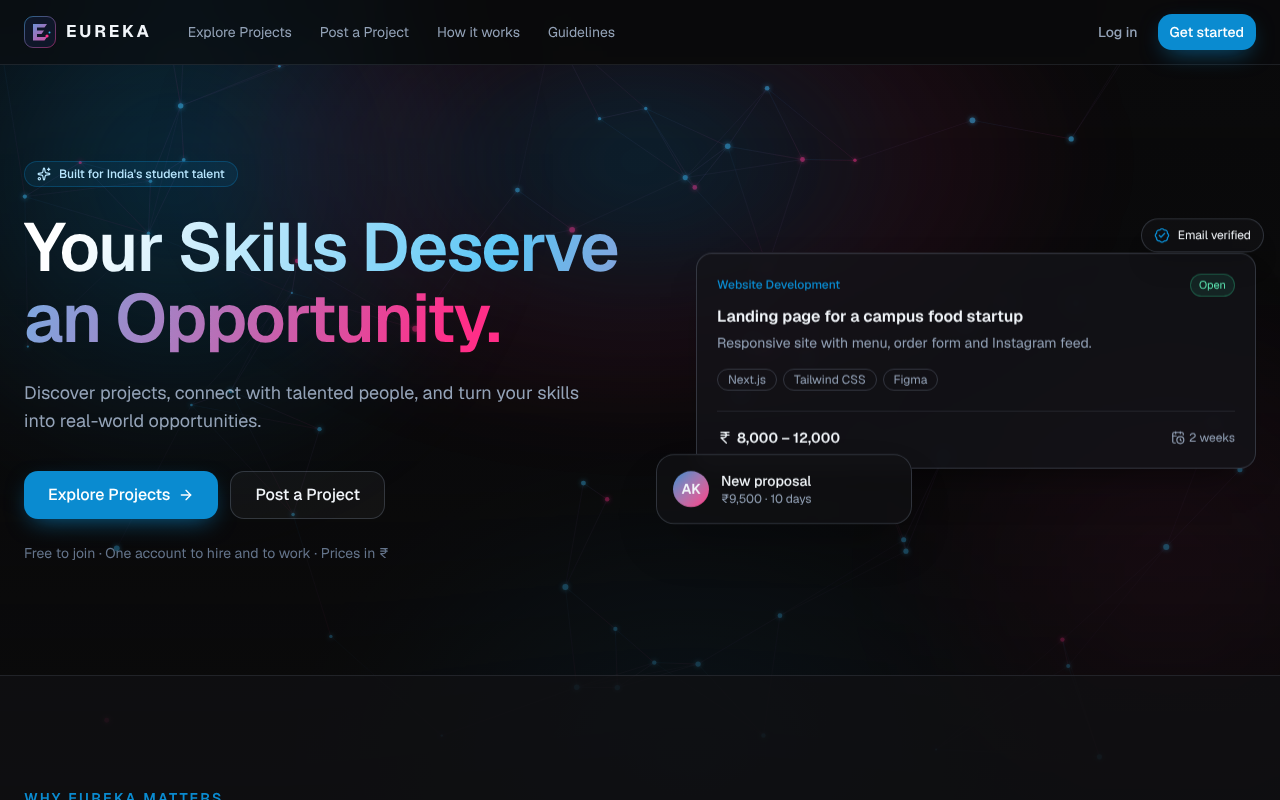
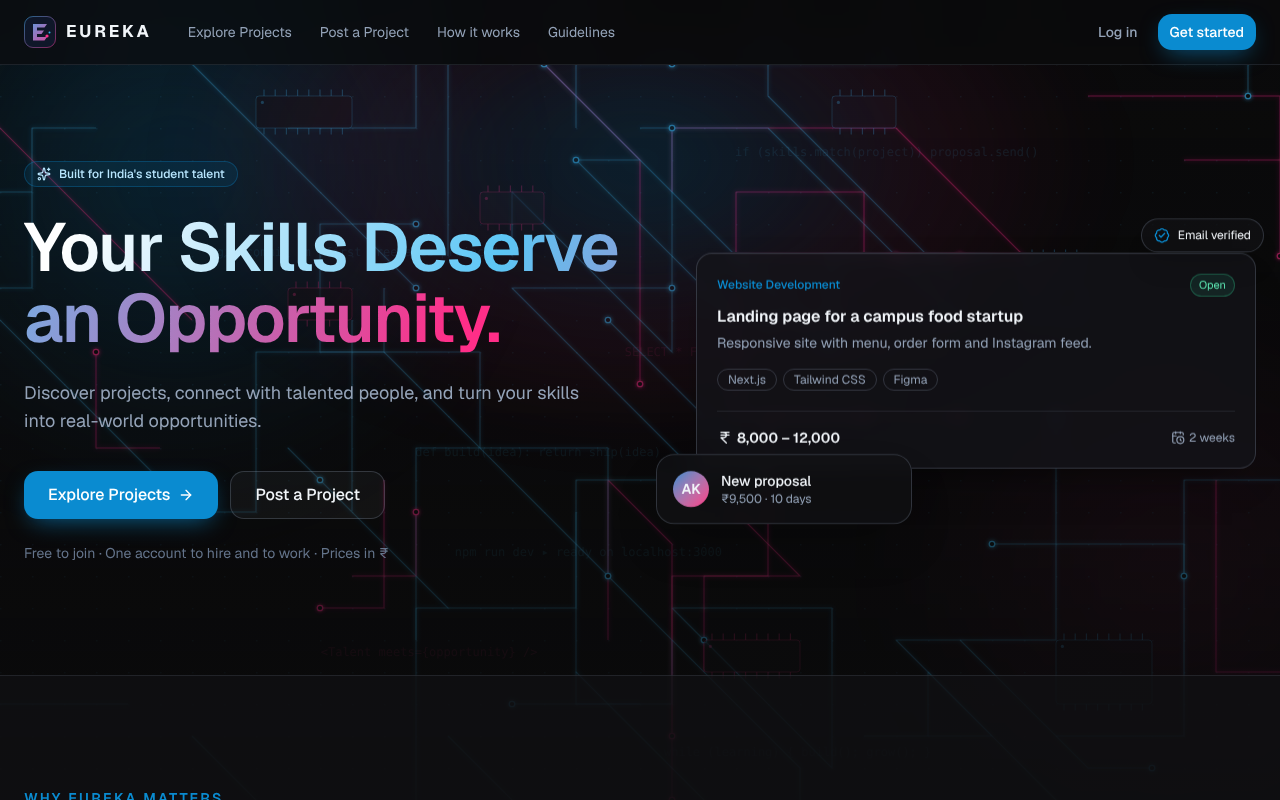
style: technology backdrop with circuit traces, chips and code
Claude-Session: https://claude.ai/code/session_01CN77pN8NtzvzwvRGpgAm5V

diff --git a/src/components/site/backdrop.tsx b/src/components/site/backdrop.tsx
@@ -1,8 +1,8 @@
 /**
- * Site-wide background artwork: a glowing "neural network" of connected
- * nodes in cerulean and neon rose, a visual metaphor for talent connecting
- * with opportunity. Generated in code (deterministic, so server and browser
- * draw the same picture), fixed behind every page and hidden from screen readers.
+ * Site-wide background artwork with a technology theme: circuit-board traces,
+ * chips and solder pads in cerulean and neon rose, with faint lines of code.
+ * Generated in code (deterministic, so server and browser draw the same
+ * picture), fixed behind every page and hidden from screen readers.
  */
 
 // Small seeded random generator so the pattern is identical on every render.
@@ -15,56 +15,126 @@ function rng(seed: number) {
 
 const W = 1600;
 const H = 1000;
+const GRID = 40;
 const rand = rng(20261116);
-const nodes = Array.from({ length: 70 }, () => ({
-  x: rand() * W,
-  y: rand() * H,
-  r: 1.2 + rand() * 2.6,
-  rose: rand() < 0.28,
-}));
-// Connect each node to its nearest neighbours.
-const links: [number, number, number][] = [];
-nodes.forEach((a, i) => {
-  nodes
-    .map((b, j) => ({ j, d: Math.hypot(a.x - b.x, a.y - b.y) }))
-    .filter((n) => n.j > i && n.d < 210)
-    .sort((p, q) => p.d - q.d)
-    .slice(0, 3)
-    .forEach((n) => links.push([i, n.j, n.d]));
+const snap = (v: number) => Math.round(v / GRID) * GRID;
+
+// Circuit traces: each runs straight, then turns 45° or 90° once or twice, ending in a pad.
+type Trace = { d: string; end: [number, number]; rose: boolean };
+const traces: Trace[] = Array.from({ length: 46 }, () => {
+  let x = snap(rand() * W);
+  let y = snap(rand() * H);
+  let d = `M${x} ${y}`;
+  const segments = 2 + Math.floor(rand() * 3);
+  let horizontal = rand() < 0.5;
+  for (let s = 0; s < segments; s++) {
+    const len = GRID * (2 + Math.floor(rand() * 6)) * (rand() < 0.5 ? -1 : 1);
+    if (rand() < 0.3) {
+      x += len; y += len; // diagonal jog
+    } else if (horizontal) {
+      x += len;
+    } else {
+      y += len;
+    }
+    horizontal = !horizontal;
+    d += ` L${x} ${y}`;
+  }
+  return { d, end: [x, y], rose: rand() < 0.25 };
 });
+
+// Chips: rectangles with pins along two sides.
+const chips = Array.from({ length: 7 }, () => ({
+  x: snap(rand() * (W - 160)),
+  y: snap(rand() * (H - 120)),
+  w: GRID * (2 + Math.floor(rand() * 2)),
+  h: GRID * (1 + Math.floor(rand() * 2)),
+  rose: rand() < 0.3,
+}));
+
+const codeLines = [
+  "const project = await eureka.post({ budget: 12000 })",
+  "if (skills.match(project)) proposal.send()",
+  "git commit -m \"first freelance project\"",
+  "SELECT * FROM opportunities WHERE open = true;",
+  "def build(idea): return ship(idea)",
+  "npm run dev  ▸ ready on localhost:3000",
+  "<Talent meets={opportunity} />",
+  "while (learning) { build(); grow(); }",
+];
+const code = codeLines.map((text, i) => ({
+  text,
+  x: 40 + rand() * (W - 600),
+  y: 70 + i * (H / codeLines.length),
+}));
+
+const CERULEAN = "#38b6f0";
+const ROSE = "#ff2e88";
 
 export function Backdrop() {
   return (
     <div aria-hidden className="pointer-events-none fixed inset-0 -z-20 overflow-hidden">
       {/* Colour fields */}
-      <div className="absolute -left-40 -top-40 h-[42rem] w-[42rem] rounded-full bg-[radial-gradient(closest-side,rgb(10_139_208/0.28),transparent)] blur-2xl" />
-      <div className="absolute -right-48 top-1/3 h-[38rem] w-[38rem] animate-glow rounded-full bg-[radial-gradient(closest-side,rgb(255_46_136/0.18),transparent)] blur-2xl" />
-      <div className="absolute -bottom-56 left-1/4 h-[34rem] w-[46rem] rounded-full bg-[radial-gradient(closest-side,rgb(10_139_208/0.16),transparent)] blur-2xl" />
-      {/* Neural network */}
-      <svg viewBox={`0 0 ${W} ${H}`} preserveAspectRatio="xMidYMid slice" className="absolute inset-0 h-full w-full opacity-70">
+      <div className="absolute -left-40 -top-40 h-[42rem] w-[42rem] rounded-full bg-[radial-gradient(closest-side,rgb(10_139_208/0.26),transparent)] blur-2xl" />
+      <div className="absolute -right-48 top-1/3 h-[38rem] w-[38rem] animate-glow rounded-full bg-[radial-gradient(closest-side,rgb(255_46_136/0.16),transparent)] blur-2xl" />
+
+      <svg viewBox={`0 0 ${W} ${H}`} preserveAspectRatio="xMidYMid slice" className="absolute inset-0 h-full w-full">
         <defs>
-          <linearGradient id="bd-link" x1="0" y1="0" x2="1" y2="1">
-            <stop offset="0" stopColor="#0a8bd0" />
-            <stop offset="1" stopColor="#ff2e88" />
-          </linearGradient>
+          <pattern id="bd-dots" width={GRID} height={GRID} patternUnits="userSpaceOnUse">
+            <circle cx="1" cy="1" r="1" fill={CERULEAN} fillOpacity="0.12" />
+          </pattern>
           <filter id="bd-glow" x="-50%" y="-50%" width="200%" height="200%">
-            <feGaussianBlur stdDeviation="3" result="b" />
+            <feGaussianBlur stdDeviation="2.5" result="b" />
             <feMerge><feMergeNode in="b" /><feMergeNode in="SourceGraphic" /></feMerge>
           </filter>
         </defs>
-        <g stroke="url(#bd-link)" strokeWidth="0.8" fill="none">
-          {links.map(([i, j, d]) => (
-            <line key={`${i}-${j}`} x1={nodes[i]!.x} y1={nodes[i]!.y} x2={nodes[j]!.x} y2={nodes[j]!.y} strokeOpacity={0.35 - d / 900} />
+
+        {/* PCB dot grid */}
+        <rect width={W} height={H} fill="url(#bd-dots)" />
+
+        {/* Faint code */}
+        <g fontFamily="ui-monospace, SFMono-Regular, Menlo, monospace" fontSize="15">
+          {code.map((c, i) => (
+            <text key={i} x={c.x} y={c.y} fill={i % 3 === 0 ? ROSE : CERULEAN} fillOpacity="0.13">{c.text}</text>
           ))}
         </g>
+
+        {/* Traces */}
+        <g fill="none" strokeWidth="1.4" strokeLinejoin="round" filter="url(#bd-glow)">
+          {traces.map((t, i) => (
+            <path key={i} d={t.d} stroke={t.rose ? ROSE : CERULEAN} strokeOpacity={t.rose ? 0.4 : 0.32} />
+          ))}
+        </g>
+        {/* Solder pads at trace ends */}
         <g filter="url(#bd-glow)">
-          {nodes.map((n, i) => (
-            <circle key={i} cx={n.x} cy={n.y} r={n.r} fill={n.rose ? "#ff2e88" : "#38b6f0"} fillOpacity={0.85} />
+          {traces.map((t, i) => (
+            <circle key={i} cx={t.end[0]} cy={t.end[1]} r="3.4" fill="#0a0a0b" stroke={t.rose ? ROSE : CERULEAN} strokeWidth="1.6" strokeOpacity="0.7" />
           ))}
         </g>
+
+        {/* Chips */}
+        {chips.map((c, i) => {
+          const color = c.rose ? ROSE : CERULEAN;
+          const pins = Math.floor(c.w / 14);
+          return (
+            <g key={i} opacity="0.55">
+              {Array.from({ length: pins }, (_, p) => {
+                const px = c.x + 10 + p * 14;
+                return (
+                  <g key={p} stroke={color} strokeWidth="1.4" strokeOpacity="0.6">
+                    <line x1={px} y1={c.y - 8} x2={px} y2={c.y} />
+                    <line x1={px} y1={c.y + c.h} x2={px} y2={c.y + c.h + 8} />
+                  </g>
+                );
+              })}
+              <rect x={c.x} y={c.y} width={c.w} height={c.h} rx="4" fill="#111114" stroke={color} strokeOpacity="0.55" />
+              <circle cx={c.x + 8} cy={c.y + 8} r="2" fill={color} fillOpacity="0.6" />
+            </g>
+          );
+        })}
       </svg>
+
       {/* Fade toward the bottom so long pages stay readable */}
-      <div className="absolute inset-0 bg-[linear-gradient(to_bottom,transparent_0%,rgb(10_10_11/0.35)_60%,rgb(10_10_11/0.75)_100%)]" />
+      <div className="absolute inset-0 bg-[linear-gradient(to_bottom,rgb(10_10_11/0.1)_0%,rgb(10_10_11/0.45)_60%,rgb(10_10_11/0.8)_100%)]" />
     </div>
   );
 }
